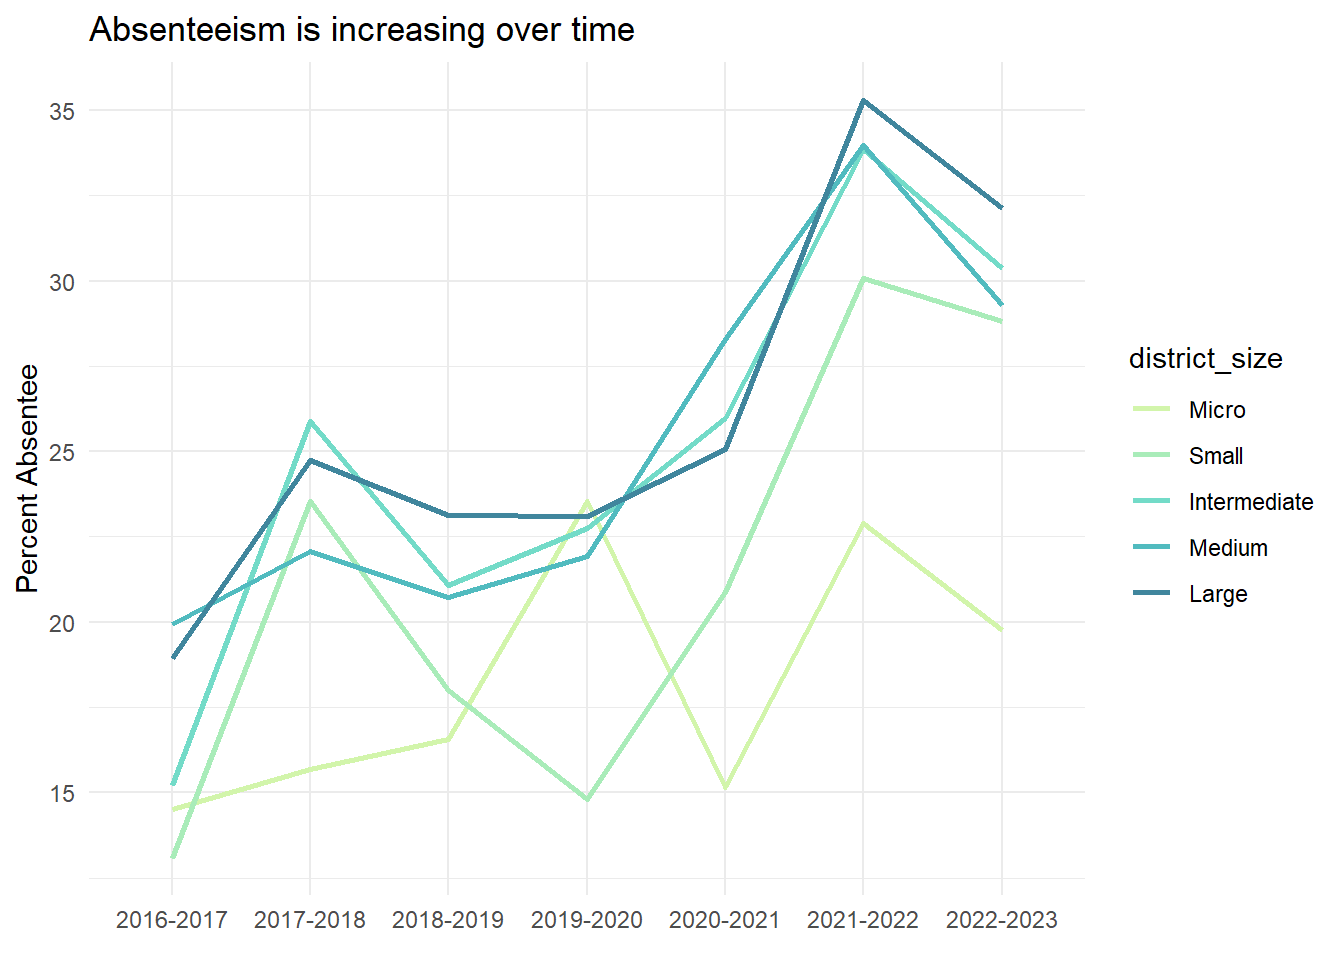
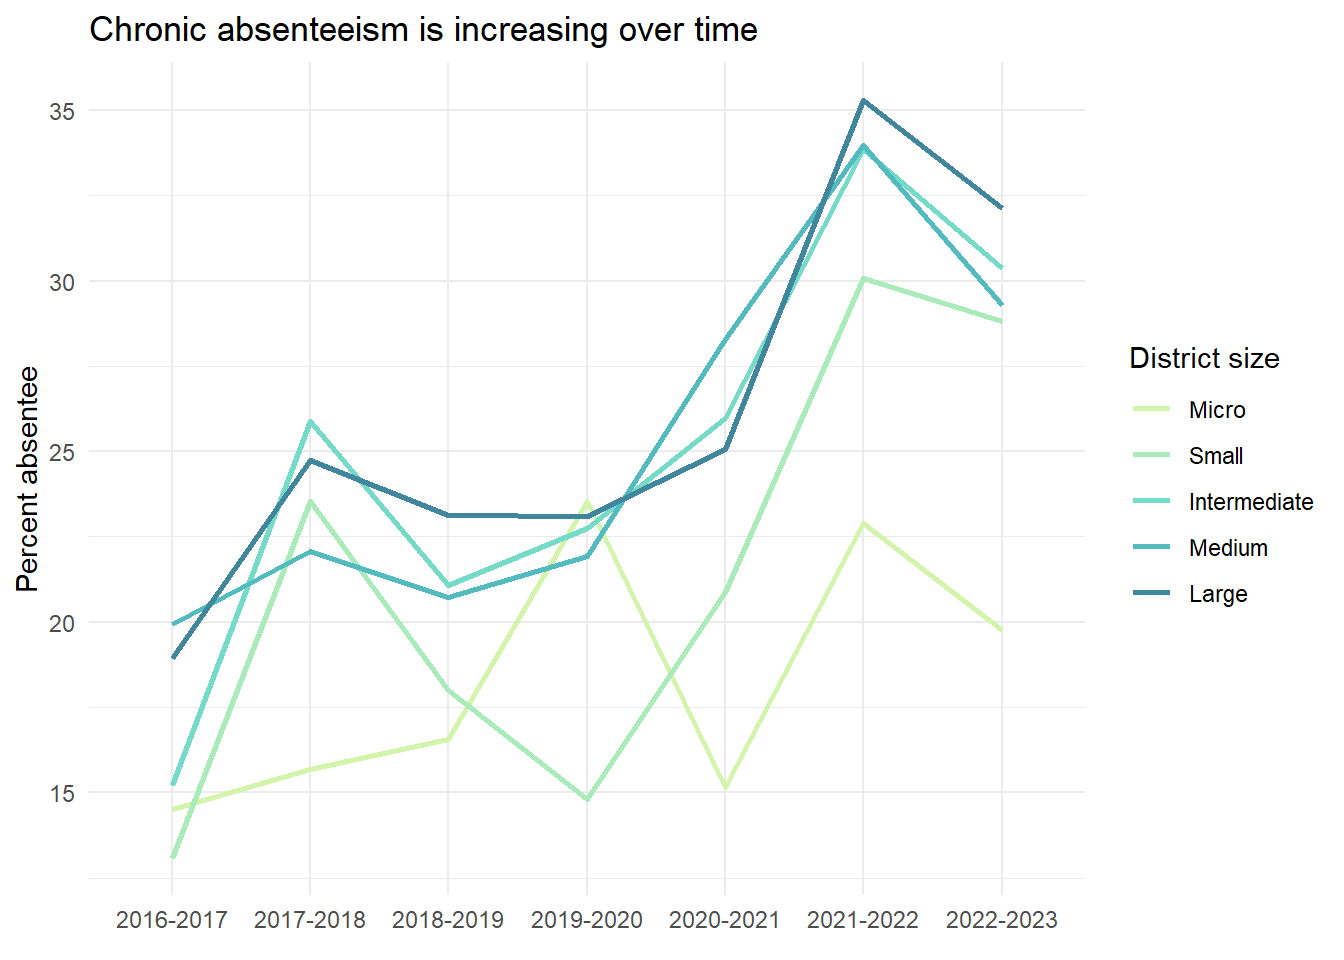
pushed minor copy and chart changes.

Changed region(s): [[0.0625, 0.0, 0.5625, 0.0625], [0.0, 0.375, 0.0312, 0.625], [0.8438, 0.3438, 0.9375, 0.4062]]

diff --git a/projects/Colorado-Chronic-Absenteeism/Colorado-School-District-ChronicAbsenteeism.html b/projects/Colorado-Chronic-Absenteeism/Colorado-School-District-ChronicAbsenteeism.html
@@ -3141,8 +3141,7 @@ pre > code.sourceCode > span > a:first-child::before { text-decoration: underlin
 </section>
 <section id="analysis" class="level2">
 <h2 class="anchored" data-anchor-id="analysis">Analysis</h2>
-<p>The purpose of this analysis is to understand how chronic absenteeism is changing in Colorado both spatially and temporally.</p>
-<p><strong>Flesh this intro out a bit more, it needs something more.</strong></p>
+<p>Now that the data have been cleaned, transformed, and new features have been created, the analysis of the data can be performed. The purpose of this analysis is to understand how chronic absenteeism is changing in Colorado both spatially and temporally and what key insights can be taken from the analysis.</p>
 <section id="absentee-trends-for-colorado-school-districts" class="level3">
 <h3 class="anchored" data-anchor-id="absentee-trends-for-colorado-school-districts">Absentee trends for Colorado school districts</h3>
 <p>To begin, we create a line chart showing how the average chronic absenteeism changes for each <code>district_size</code> from 2016 - 2023. These are weighted averages that take into account the varying sizes of the individual school districts.</p>
@@ -3157,9 +3156,9 @@ pre > code.sourceCode > span > a:first-child::before { text-decoration: underlin
 <span id="cb60-8"><a href="#cb60-8" aria-hidden="true" tabindex="-1"></a>  <span class="fu">scale_colour_manual</span>(<span class="at">values =</span> district_size_palette)<span class="sc">+</span></span>
 <span id="cb60-9"><a href="#cb60-9" aria-hidden="true" tabindex="-1"></a>  <span class="fu">labs</span>(</span>
 <span id="cb60-10"><a href="#cb60-10" aria-hidden="true" tabindex="-1"></a>    <span class="at">x=</span><span class="fu">element_blank</span>(),</span>
-<span id="cb60-11"><a href="#cb60-11" aria-hidden="true" tabindex="-1"></a>    <span class="at">y=</span><span class="st">"Percent Absentee"</span>,</span>
-<span id="cb60-12"><a href="#cb60-12" aria-hidden="true" tabindex="-1"></a>    <span class="at">title=</span><span class="st">"Absenteeism is increasing over time"</span>,</span>
-<span id="cb60-13"><a href="#cb60-13" aria-hidden="true" tabindex="-1"></a>    <span class="at">fill=</span><span class="st">"District size"</span></span>
+<span id="cb60-11"><a href="#cb60-11" aria-hidden="true" tabindex="-1"></a>    <span class="at">y=</span><span class="st">"Percent absentee"</span>,</span>
+<span id="cb60-12"><a href="#cb60-12" aria-hidden="true" tabindex="-1"></a>    <span class="at">title=</span><span class="st">"Chronic absenteeism is increasing over time"</span>,</span>
+<span id="cb60-13"><a href="#cb60-13" aria-hidden="true" tabindex="-1"></a>    <span class="at">colour=</span><span class="st">"District size"</span></span>
 <span id="cb60-14"><a href="#cb60-14" aria-hidden="true" tabindex="-1"></a>  )</span></code><button title="Copy to Clipboard" class="code-copy-button"><i class="bi"></i></button></pre></div>
 <div class="cell-output-display">
 <p><img src="Colorado-School-District-ChronicAbsenteeism_files/figure-html/absenteeism%20trends-1.png" class="img-fluid" width="672"></p>
@@ -3204,6 +3203,7 @@ pre > code.sourceCode > span > a:first-child::before { text-decoration: underlin
 </section>
 <section id="spatial-variations-in-the-change-of-chronic-absenteeism-rates" class="level3">
 <h3 class="anchored" data-anchor-id="spatial-variations-in-the-change-of-chronic-absenteeism-rates">Spatial variations in the change of chronic absenteeism rates</h3>
+<p>The rate of change of chronic absenteeism varies from region to region throughout the state. As expected, smaller districts show the most variability due to their smaller enrollment numbers. Early rates of change may be the result of improved record keeping on this metric rather than a real change in the rate of chronic absenteeism. This would be consistent with the relative stability of rates in 2017-2018 and 2018-2019. As expected, the rate of change increases statewide during the pandemic before appearing to improve in 2022-2023.</p>
 <div class="cell">
 <div class="sourceCode cell-code" id="cb62"><pre class="sourceCode r code-with-copy"><code class="sourceCode r"><span id="cb62-1"><a href="#cb62-1" aria-hidden="true" tabindex="-1"></a>districts_shp <span class="sc">|&gt;</span> </span>
 <span id="cb62-2"><a href="#cb62-2" aria-hidden="true" tabindex="-1"></a>  <span class="fu">inner_join</span>(df_master, <span class="at">by=</span><span class="st">"district_code"</span>) <span class="sc">|&gt;</span> </span>
@@ -3234,6 +3234,10 @@ pre > code.sourceCode > span > a:first-child::before { text-decoration: underlin
 <p><img src="Colorado-School-District-ChronicAbsenteeism_files/figure-html/percent%20change%20of%20absent%20rate%202017-2023-1.png" class="img-fluid" width="1440"></p>
 </div>
 </div>
+</section>
+<section id="student-enrollment" class="level3">
+<h3 class="anchored" data-anchor-id="student-enrollment">Student enrollment</h3>
+<p>Student enrollment was stable from the 2016-2017 to 2018-2019 school year. From 2019-2020 to 2022-2023 there was significant volatility in the total enrollment numbers for Colorado, with numbers return to pre-pandemic levels in the 2022-2023 school year.</p>
 <div class="cell">
 <div class="sourceCode cell-code" id="cb63"><pre class="sourceCode r code-with-copy"><code class="sourceCode r"><span id="cb63-1"><a href="#cb63-1" aria-hidden="true" tabindex="-1"></a>total_enrollment_year <span class="ot">&lt;-</span> df_master <span class="sc">|&gt;</span> </span>
 <span id="cb63-2"><a href="#cb63-2" aria-hidden="true" tabindex="-1"></a>  <span class="fu">group_by</span>(school_year) <span class="sc">|&gt;</span> </span>
@@ -3243,18 +3247,8 @@ pre > code.sourceCode > span > a:first-child::before { text-decoration: underlin
 <span id="cb63-6"><a href="#cb63-6" aria-hidden="true" tabindex="-1"></a></span>
 <span id="cb63-7"><a href="#cb63-7" aria-hidden="true" tabindex="-1"></a>total_enrollment_year <span class="sc">|&gt;</span> </span>
 <span id="cb63-8"><a href="#cb63-8" aria-hidden="true" tabindex="-1"></a>  <span class="fu">pivot_wider</span>(<span class="at">names_from =</span> <span class="st">"school_year"</span>, <span class="at">values_from =</span> <span class="st">"total_enrollment"</span>) <span class="sc">|&gt;</span> </span>
-<span id="cb63-9"><a href="#cb63-9" aria-hidden="true" tabindex="-1"></a>  <span class="fu">gt</span>(<span class="at">id=</span><span class="st">"co-total-enrollment"</span>) <span class="sc">|&gt;</span> </span>
-<span id="cb63-10"><a href="#cb63-10" aria-hidden="true" tabindex="-1"></a>  <span class="fu">tab_header</span>(</span>
-<span id="cb63-11"><a href="#cb63-11" aria-hidden="true" tabindex="-1"></a>    <span class="at">title =</span> <span class="st">"Colorado total enrollment 2016-2023"</span></span>
-<span id="cb63-12"><a href="#cb63-12" aria-hidden="true" tabindex="-1"></a>  ) <span class="sc">|&gt;</span> </span>
-<span id="cb63-13"><a href="#cb63-13" aria-hidden="true" tabindex="-1"></a>  <span class="fu">fmt_number</span>(<span class="at">drop_trailing_zeros =</span> <span class="cn">TRUE</span>) <span class="sc">|&gt;</span> </span>
-<span id="cb63-14"><a href="#cb63-14" aria-hidden="true" tabindex="-1"></a>  <span class="fu">opt_css</span>(</span>
-<span id="cb63-15"><a href="#cb63-15" aria-hidden="true" tabindex="-1"></a>    <span class="at">css =</span> <span class="st">"</span></span>
-<span id="cb63-16"><a href="#cb63-16" aria-hidden="true" tabindex="-1"></a><span class="st">    #co-total-enrollment .gt_table {</span></span>
-<span id="cb63-17"><a href="#cb63-17" aria-hidden="true" tabindex="-1"></a><span class="st">      width: 100%;</span></span>
-<span id="cb63-18"><a href="#cb63-18" aria-hidden="true" tabindex="-1"></a><span class="st">    }</span></span>
-<span id="cb63-19"><a href="#cb63-19" aria-hidden="true" tabindex="-1"></a><span class="st">    "</span></span>
-<span id="cb63-20"><a href="#cb63-20" aria-hidden="true" tabindex="-1"></a>  )</span></code><button title="Copy to Clipboard" class="code-copy-button"><i class="bi"></i></button></pre></div>
+<span id="cb63-9"><a href="#cb63-9" aria-hidden="true" tabindex="-1"></a>  <span class="fu">gt</span>(<span class="at">id=</span><span class="st">"co-total-enrollment"</span>) <span class="sc">|&gt;</span></span>
+<span id="cb63-10"><a href="#cb63-10" aria-hidden="true" tabindex="-1"></a>  <span class="fu">format_table</span>(<span class="st">"Colorado total enrollment 2016-2023"</span>)</span></code><button title="Copy to Clipboard" class="code-copy-button"><i class="bi"></i></button></pre></div>
 <div class="cell-output-display">
 
 <div id="co-total-enrollment" style="padding-left:0px;padding-right:0px;padding-top:10px;padding-bottom:10px;overflow-x:auto;overflow-y:auto;width:auto;height:auto;">
@@ -3732,7 +3726,7 @@ pre > code.sourceCode > span > a:first-child::before { text-decoration: underlin
 </div>
 </div>
 </div>
-<p>As the following plot shows, Colorado student enrollments are volatile in the 2019-2022 school years. The number of students enrolled fluctuates during the time that chronic absentee rates are peaking.</p>
+<p>As the following plot shows, Colorado student enrollments are volatile in the 2019-2022 school years. The number of students enrolled fluctuates significantly during the time that chronic absentee rates are peaking.</p>
 <div class="cell">
 <div class="sourceCode cell-code" id="cb64"><pre class="sourceCode r code-with-copy"><code class="sourceCode r"><span id="cb64-1"><a href="#cb64-1" aria-hidden="true" tabindex="-1"></a>total_enrollment_year <span class="sc">|&gt;</span> </span>
 <span id="cb64-2"><a href="#cb64-2" aria-hidden="true" tabindex="-1"></a>  <span class="fu">mutate</span>(</span>
@@ -3753,6 +3747,7 @@ pre > code.sourceCode > span > a:first-child::before { text-decoration: underlin
 <p><img src="Colorado-School-District-ChronicAbsenteeism_files/figure-html/visualise%20enrollment%20pct%20change-1.png" class="img-fluid" width="672"></p>
 </div>
 </div>
+<p>As this graph illustrates, there is a noticeable increase in enrollment in large districts in 2019-2020 followed by a nearly equally pronounced drop the following year. Enrollments are set early in the school year, so the increase in overall enrollment, and large districts’ uptake of more students is independent of the COVID-19 pandemic. The drop in total enrollment and large districts’ relative loss of students the following year may indicate a removal of students from the school system. There is another uptick in enrollment the following year, which aligns with the peak rate of chronic absenteeism observed from 2016 to 2023. It is unclear whether these phenomena are related or not.</p>
 <div class="cell">
 <div class="sourceCode cell-code" id="cb65"><pre class="sourceCode r code-with-copy"><code class="sourceCode r"><span id="cb65-1"><a href="#cb65-1" aria-hidden="true" tabindex="-1"></a>df_master <span class="sc">|&gt;</span> </span>
 <span id="cb65-2"><a href="#cb65-2" aria-hidden="true" tabindex="-1"></a>  <span class="fu">group_by</span>(district_size, school_year) <span class="sc">|&gt;</span> </span>
@@ -3785,12 +3780,15 @@ pre > code.sourceCode > span > a:first-child::before { text-decoration: underlin
 </section>
 <section id="key-findings" class="level2">
 <h2 class="anchored" data-anchor-id="key-findings">Key findings</h2>
+<p>The seven school years from 2016 to 2023 are marked by a period of relative stability to one of increasing volatility of student enrollment and increased rates of chronic absenteeism during and after the COVID-19 pandemic. There are signs of improvement, but it is too early to tell if improvements in chronic absentee rates will continue.</p>
+<p>This analysis shows that:</p>
 <ul>
+<li>There are not pronounced region differences in rates of chronic absenteeism. The eastern plains do appear to have a somewhat lower rate than other regions, but it also has smaller school districts, in general, than other parts of the state.</li>
+<li>Smaller districts generally have lower rates of absenteeism than larger ones.</li>
+<li>About 7 in 10 Colorado students are enrolled in large school districts. Given that these districts also have higher rates of absenteeism, State efforts to address the problem should focus on these districts</li>
 <li>Chronic absenteeism is increasing between 2016 and 2023 with a noticeable increase in the rate of absenteeism during the COVID-19 pandemic.</li>
 <li>Rates of absenteeism appear to be declining, but it is too early to establish a trend.</li>
 <li>The pandemic appears to have caused a migration of students into and then out of larger school districts. This flux of students may have contributed to increased rates of absenteeism during this time.</li>
-<li>Smaller districts generally have rate rates of absenteeism than larger ones.</li>
-<li>About 7 in 10 Colorado students are enrolled in large school districts. Given that these districts also have higher rates of absenteeism, State efforts to address the problem should focus on these districts</li>
 </ul>
 </section>
 
